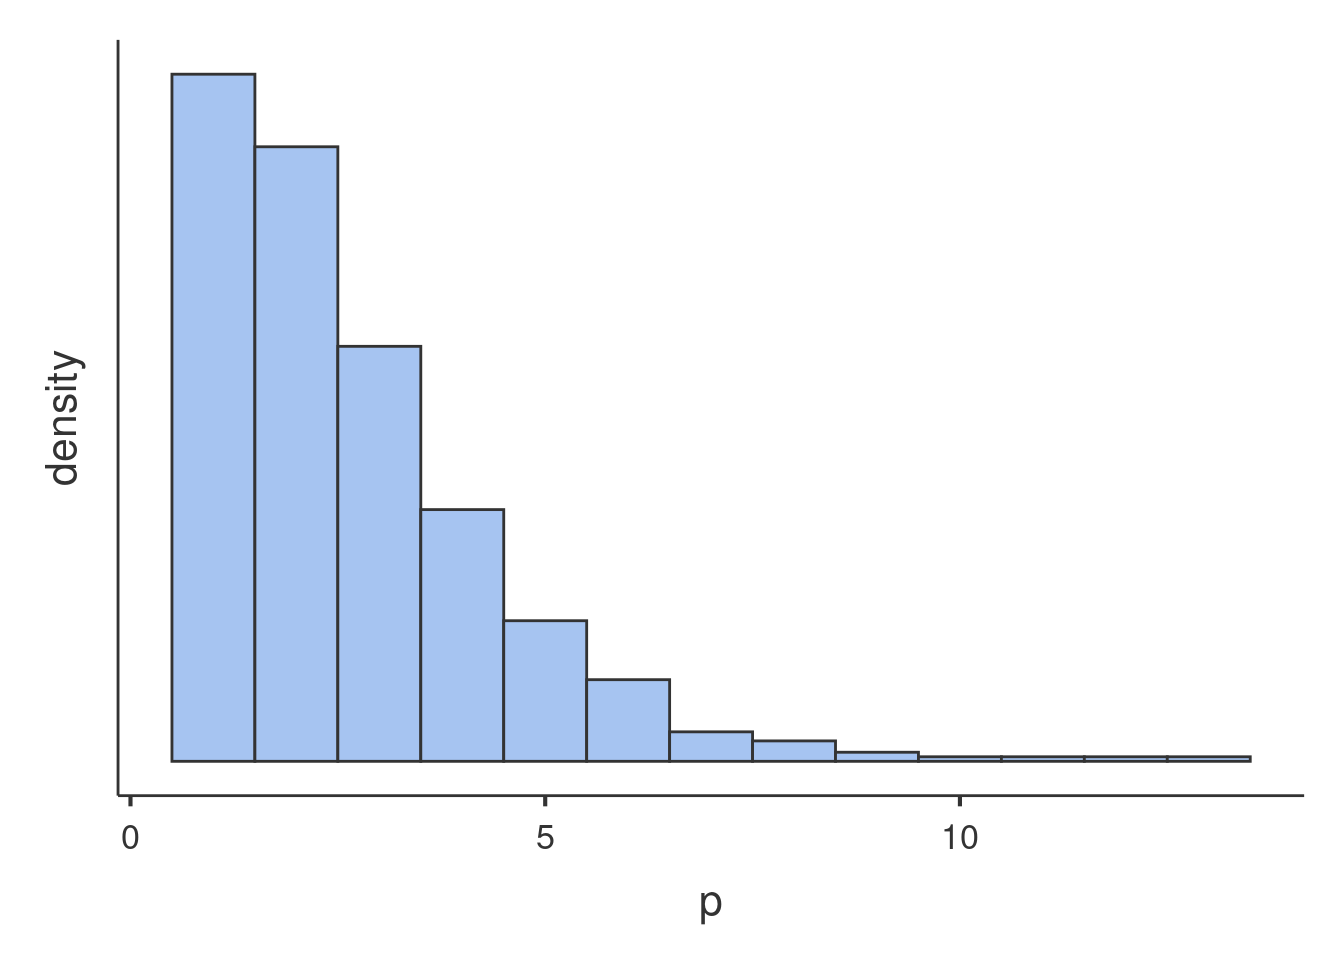
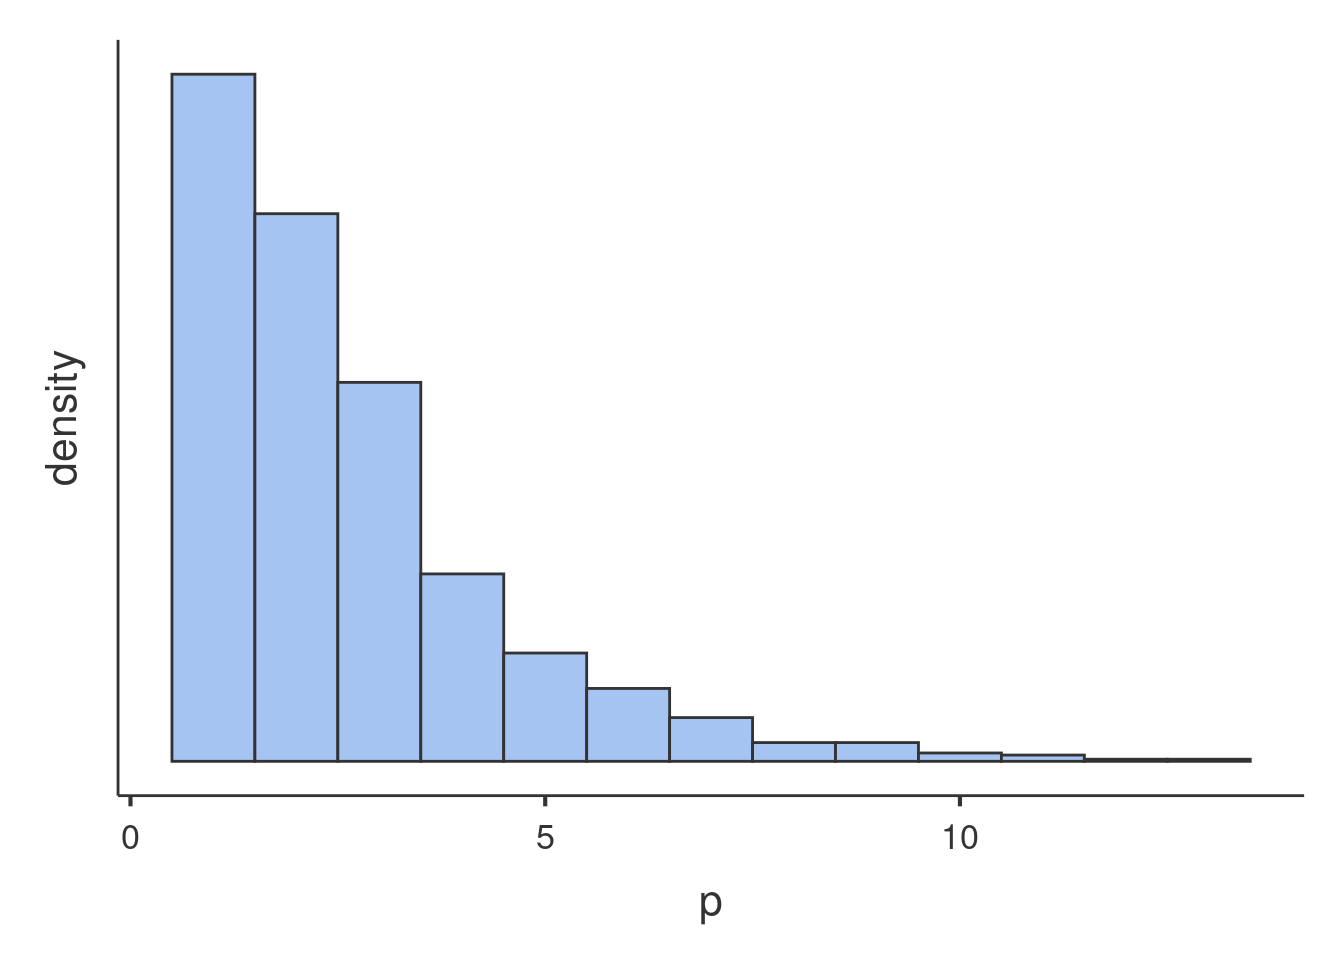
updates

diff --git a/docssource/glmmixed_example2.html b/docssource/glmmixed_example2.html
@@ -389,7 +389,7 @@ div.tocify {
 <p><img src="glmmixed_example2_files/figure-html/unnamed-chunk-2-1.png" width="672" /></p>
 <p>Glancing at the histogram makes it clear that the distribution is not normal, but it roughly resembles the Poisson distribution. Here is an example of Poisson distribution with equivalent mean.</p>
 <p><img src="glmmixed_example2_files/figure-html/unnamed-chunk-3-1.png" width="672" /></p>
-<p>We can see that the shape of our distribution is not qualitatively very different as compared with a theoretical Poisson distribution, so a Generalized Linear Model with Poisson distribition may work. However, we can check wheather our distribution is in line with the features of the Poisson dist by checking its mean and variance. The Poisson distribution has variance equal to the mean, in fact the simulated distribution in the histogram has <span class="math inline">\(\bar{x}=1.657\)</span> and <span class="math inline">\(s^2=1.621\)</span>. The <code>art</code> variable distribution has <span class="math inline">\(\bar{x}=1.693\)</span> and <span class="math inline">\(s^2=3.71\)</span>, with a ratio variance/mean of 2.191, which does not really qualify for Poisson dist. This looks like a case of <strong>overdispersion</strong>, <a href="http://bbolker.github.io/mixedmodels-misc/glmmFAQ.html#overdispersion">cf. here for details</a>. We will than consider a Negative Binomial model to account for possible overdispersion.</p>
+<p>We can see that the shape of our distribution is not qualitatively very different as compared with a theoretical Poisson distribution, so a Generalized Linear Model with Poisson distribition may work. However, we can check wheather our distribution is in line with the features of the Poisson dist by checking its mean and variance. The Poisson distribution has variance equal to the mean, in fact the simulated distribution in the histogram has <span class="math inline">\(\bar{x}=1.651\)</span> and <span class="math inline">\(s^2=1.609\)</span>. The <code>art</code> variable distribution has <span class="math inline">\(\bar{x}=1.693\)</span> and <span class="math inline">\(s^2=3.71\)</span>, with a ratio variance/mean of 2.191, which does not really qualify for Poisson dist. This looks like a case of <strong>overdispersion</strong>, <a href="http://bbolker.github.io/mixedmodels-misc/glmmFAQ.html#overdispersion">cf. here for details</a>. We will than consider a Negative Binomial model to account for possible overdispersion.</p>
 <p>An example of Negative Binomial distribution with equivalent mean and variance is here.</p>
 <p><img src="glmmixed_example2_files/figure-html/unnamed-chunk-4-1.png" width="672" /></p>
 <p>The second issue one needs to deal with is the structure of the data. We have seen that the students are not a random sample of students drawn independently one each other, but they are grouped by the program they are enrolled in. There are 83 programs, in each program there are on average 11 students. Because students in the same program may be more similar one each other than across programs, <code>programs</code> may cluster the scores of the dependent variable and create dependency in the data. To take dependency into the account, we will use a random intercepts model estimated with a Generalized Mixed Model.</p>
